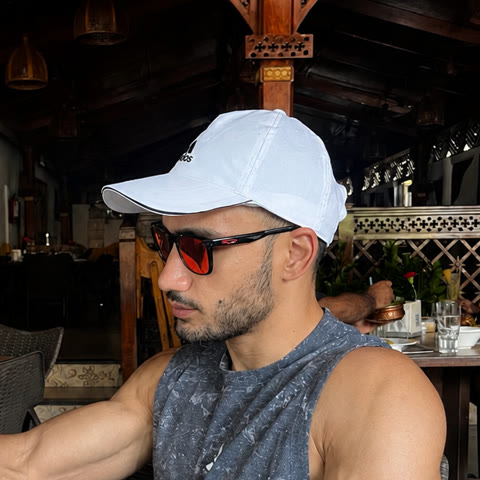
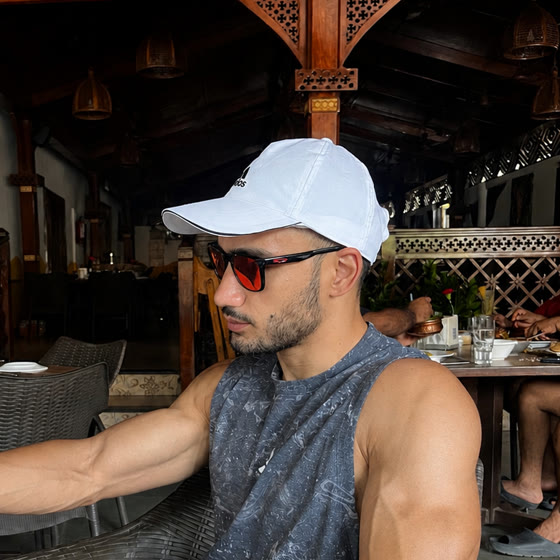
Fix mobile layout and ship the media directory
The legacy "builds" array in vercel.json only deploys files a builder
matches, and nothing matched media/ — so every video, poster and the
avatar 404'd in production. Adds a static builder for it.

profile.html had no viewport meta, so phones rendered it at 980px and
scaled down. Adds one, and gives the phone breakpoint Instagram's own
arrangement: avatar and handle on one row, bio and actions full width.

Widens the avatar crop.

diff --git a/profile.html b/profile.html
@@ -1,4 +1,6 @@
 <title>@apoorv</title>
+<meta charset="utf-8">
+<meta name="viewport" content="width=device-width, initial-scale=1">
 <meta name="description" content="Apoorv Bhardwaj — full-stack developer. Booking platforms, payment rails and internal tools that businesses actually run on.">
 <link rel="canonical" href="https://www.builtbyapoorv.in/">
 <meta property="og:type" content="profile">
@@ -143,6 +145,7 @@
   .prof-main { min-width: 0; flex: 1; }
 
   .prof-top { display: flex; align-items: center; gap: 14px; flex-wrap: wrap; margin-bottom: 14px; }
+  .prof-btns { display: flex; gap: 10px; flex-wrap: wrap; }
   .prof-handle { font-size: 1.35rem; font-weight: 400; letter-spacing: -.01em; }
   .verified { width: 17px; height: 17px; vertical-align: -3px; margin-left: 4px; }
 
@@ -168,12 +171,25 @@
   .bio .stack-line { font-family: var(--mono); font-size: .78rem; color: var(--muted); }
   .bio a { color: var(--action); font-weight: 500; }
 
+  /* Phone layout mirrors Instagram's: avatar and handle share row 1, the bio runs
+     full width beneath, and the actions take a full-width row of their own.
+     `display: contents` lifts the nested wrappers out so one grid can place them. */
   @media (max-width: 735px) {
-    .profile { gap: 18px; padding: 20px 0 14px; }
+    .profile {
+      display: grid;
+      grid-template-columns: auto 1fr;
+      gap: 14px 16px;
+      align-items: center;
+      padding: 18px 0 14px;
+    }
+    .prof-main, .prof-top { display: contents; }
+    .avatar-wrap { grid-area: 1 / 1; }
+    .prof-handle { grid-area: 1 / 2; }
+    .bio { grid-area: 2 / 1 / 3 / -1; max-width: none; }
+    .prof-btns { grid-area: 3 / 1 / 4 / -1; }
+    .prof-btns .btn { flex: 1; text-align: center; padding: 8px 12px; }
     .avatar { width: 74px; height: 74px; font-size: 1.9rem; }
-    .prof-top { margin-bottom: 10px; }
     .stats { display: none; }
-    .bio { max-width: none; }
   }
 
   /* mobile stat strip */
@@ -598,12 +614,14 @@
 <main class="shell flush" id="app">
 
   <section class="profile">
-    <div class="avatar-wrap"><img class="avatar" src="media/apoorv.jpg" alt="Apoorv Bhardwaj" width="480" height="480"></div>
+    <div class="avatar-wrap"><img class="avatar" src="media/apoorv.jpg" alt="Apoorv Bhardwaj" width="560" height="560"></div>
     <div class="prof-main">
       <div class="prof-top">
         <h1 class="prof-handle">apoorv</h1>
-        <a class="btn primary" id="resume-btn" href="https://firebasestorage.googleapis.com/v0/b/slot-booking-c28d8.appspot.com/o/resume%2FApoorv%20Bhardwaj.pdf?alt=media&token=029d91ef-49da-42b5-a706-1db2910dc278" target="_blank" rel="noopener">Résumé</a>
-        <button class="btn" id="dm-btn-2" type="button">Message</button>
+        <div class="prof-btns">
+          <a class="btn primary" id="resume-btn" href="https://firebasestorage.googleapis.com/v0/b/slot-booking-c28d8.appspot.com/o/resume%2FApoorv%20Bhardwaj.pdf?alt=media&token=029d91ef-49da-42b5-a706-1db2910dc278" target="_blank" rel="noopener">Résumé</a>
+          <button class="btn" id="dm-btn-2" type="button">Message</button>
+        </div>
       </div>
       <div class="stats" id="stats-desk"></div>
       <div class="bio">
